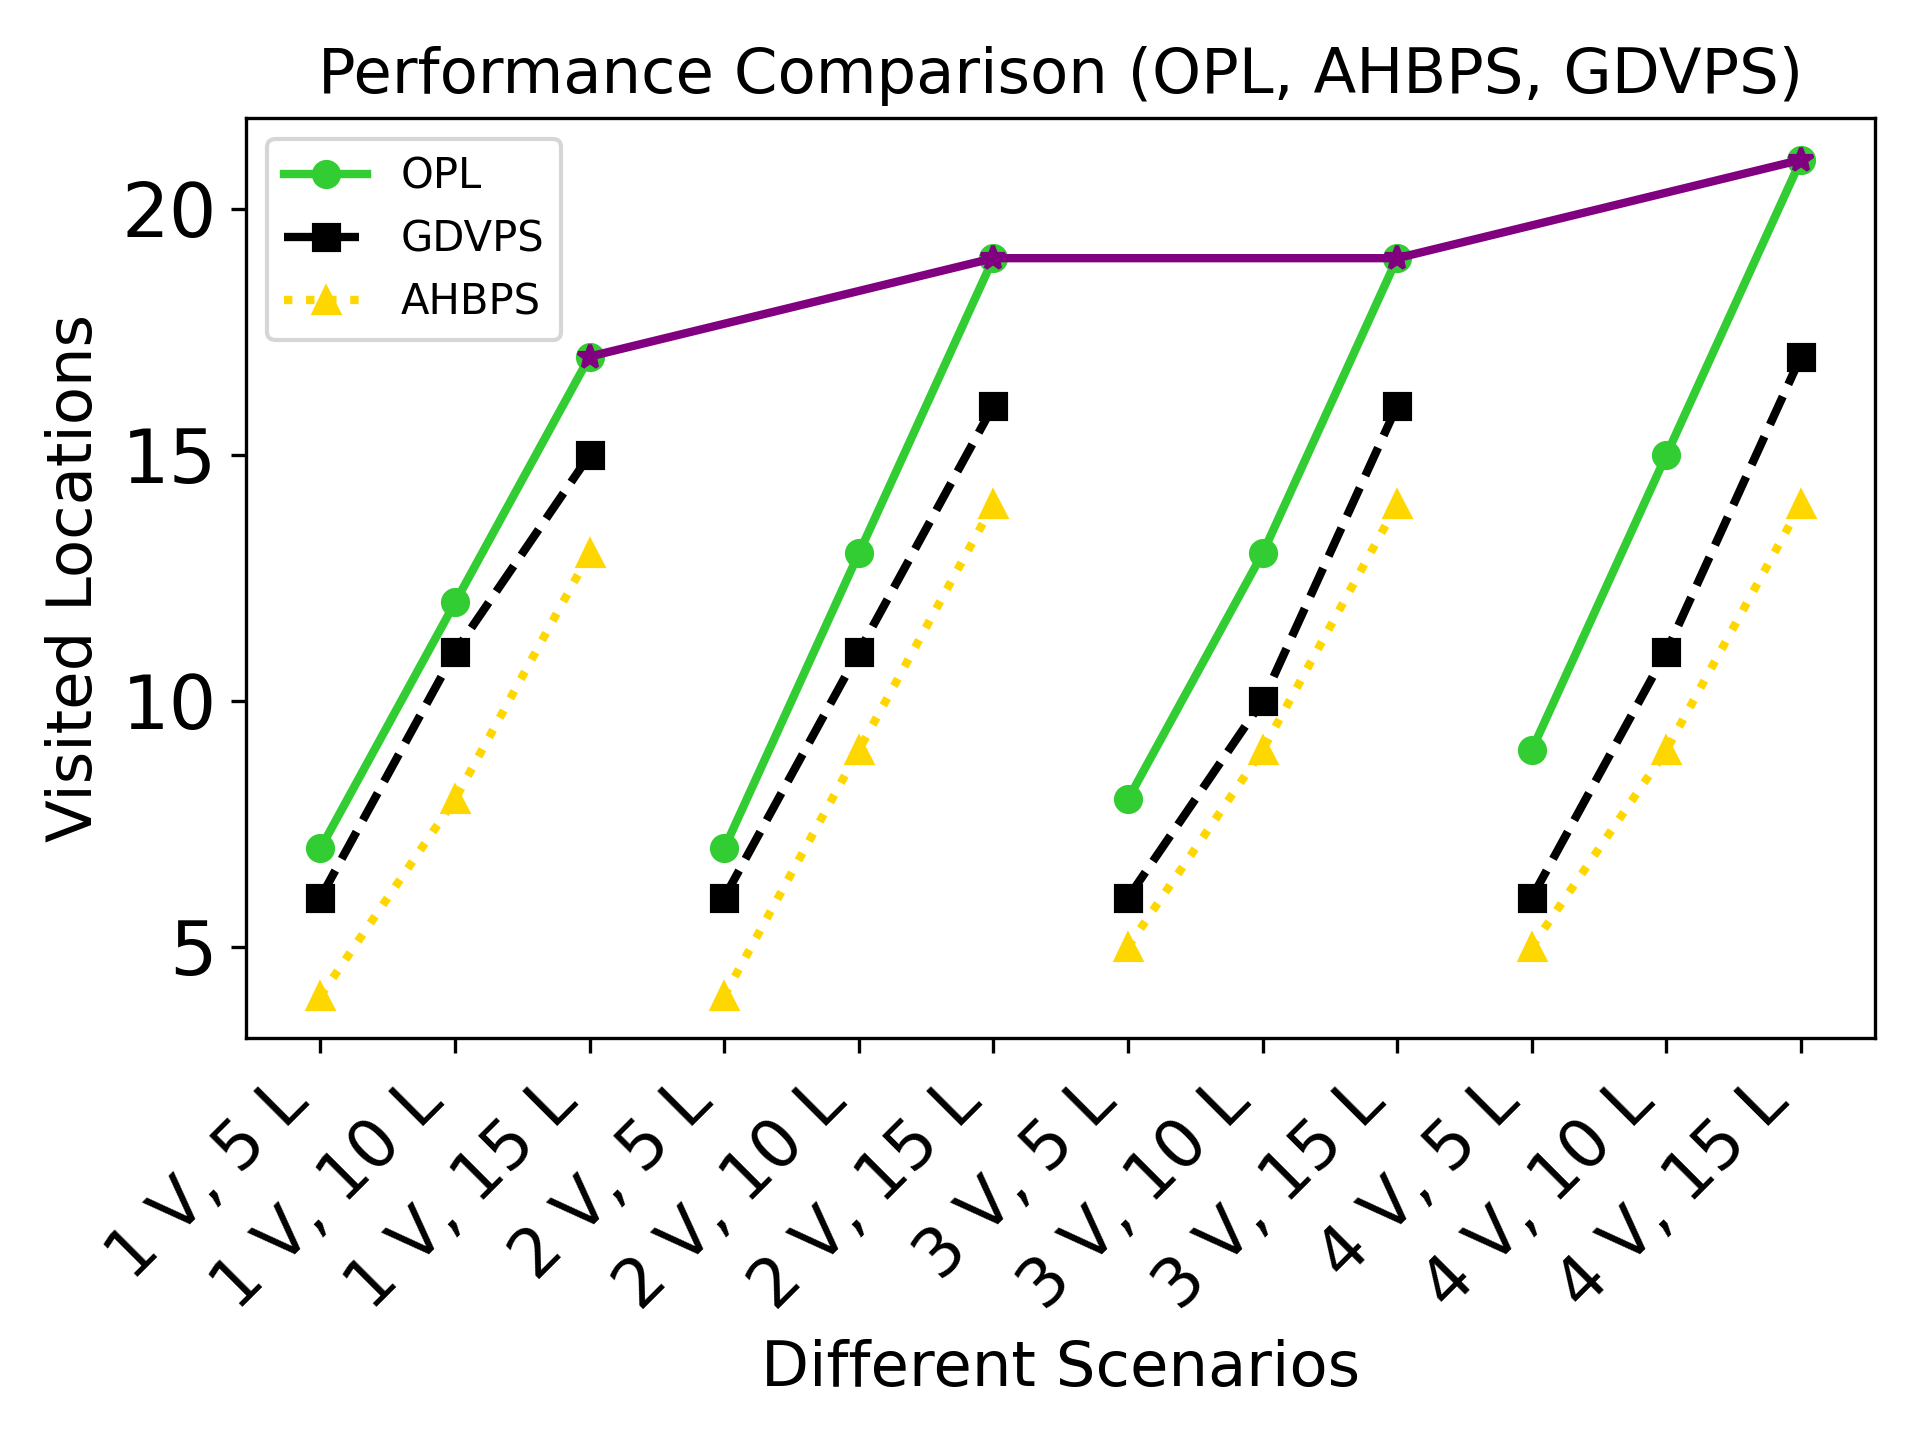
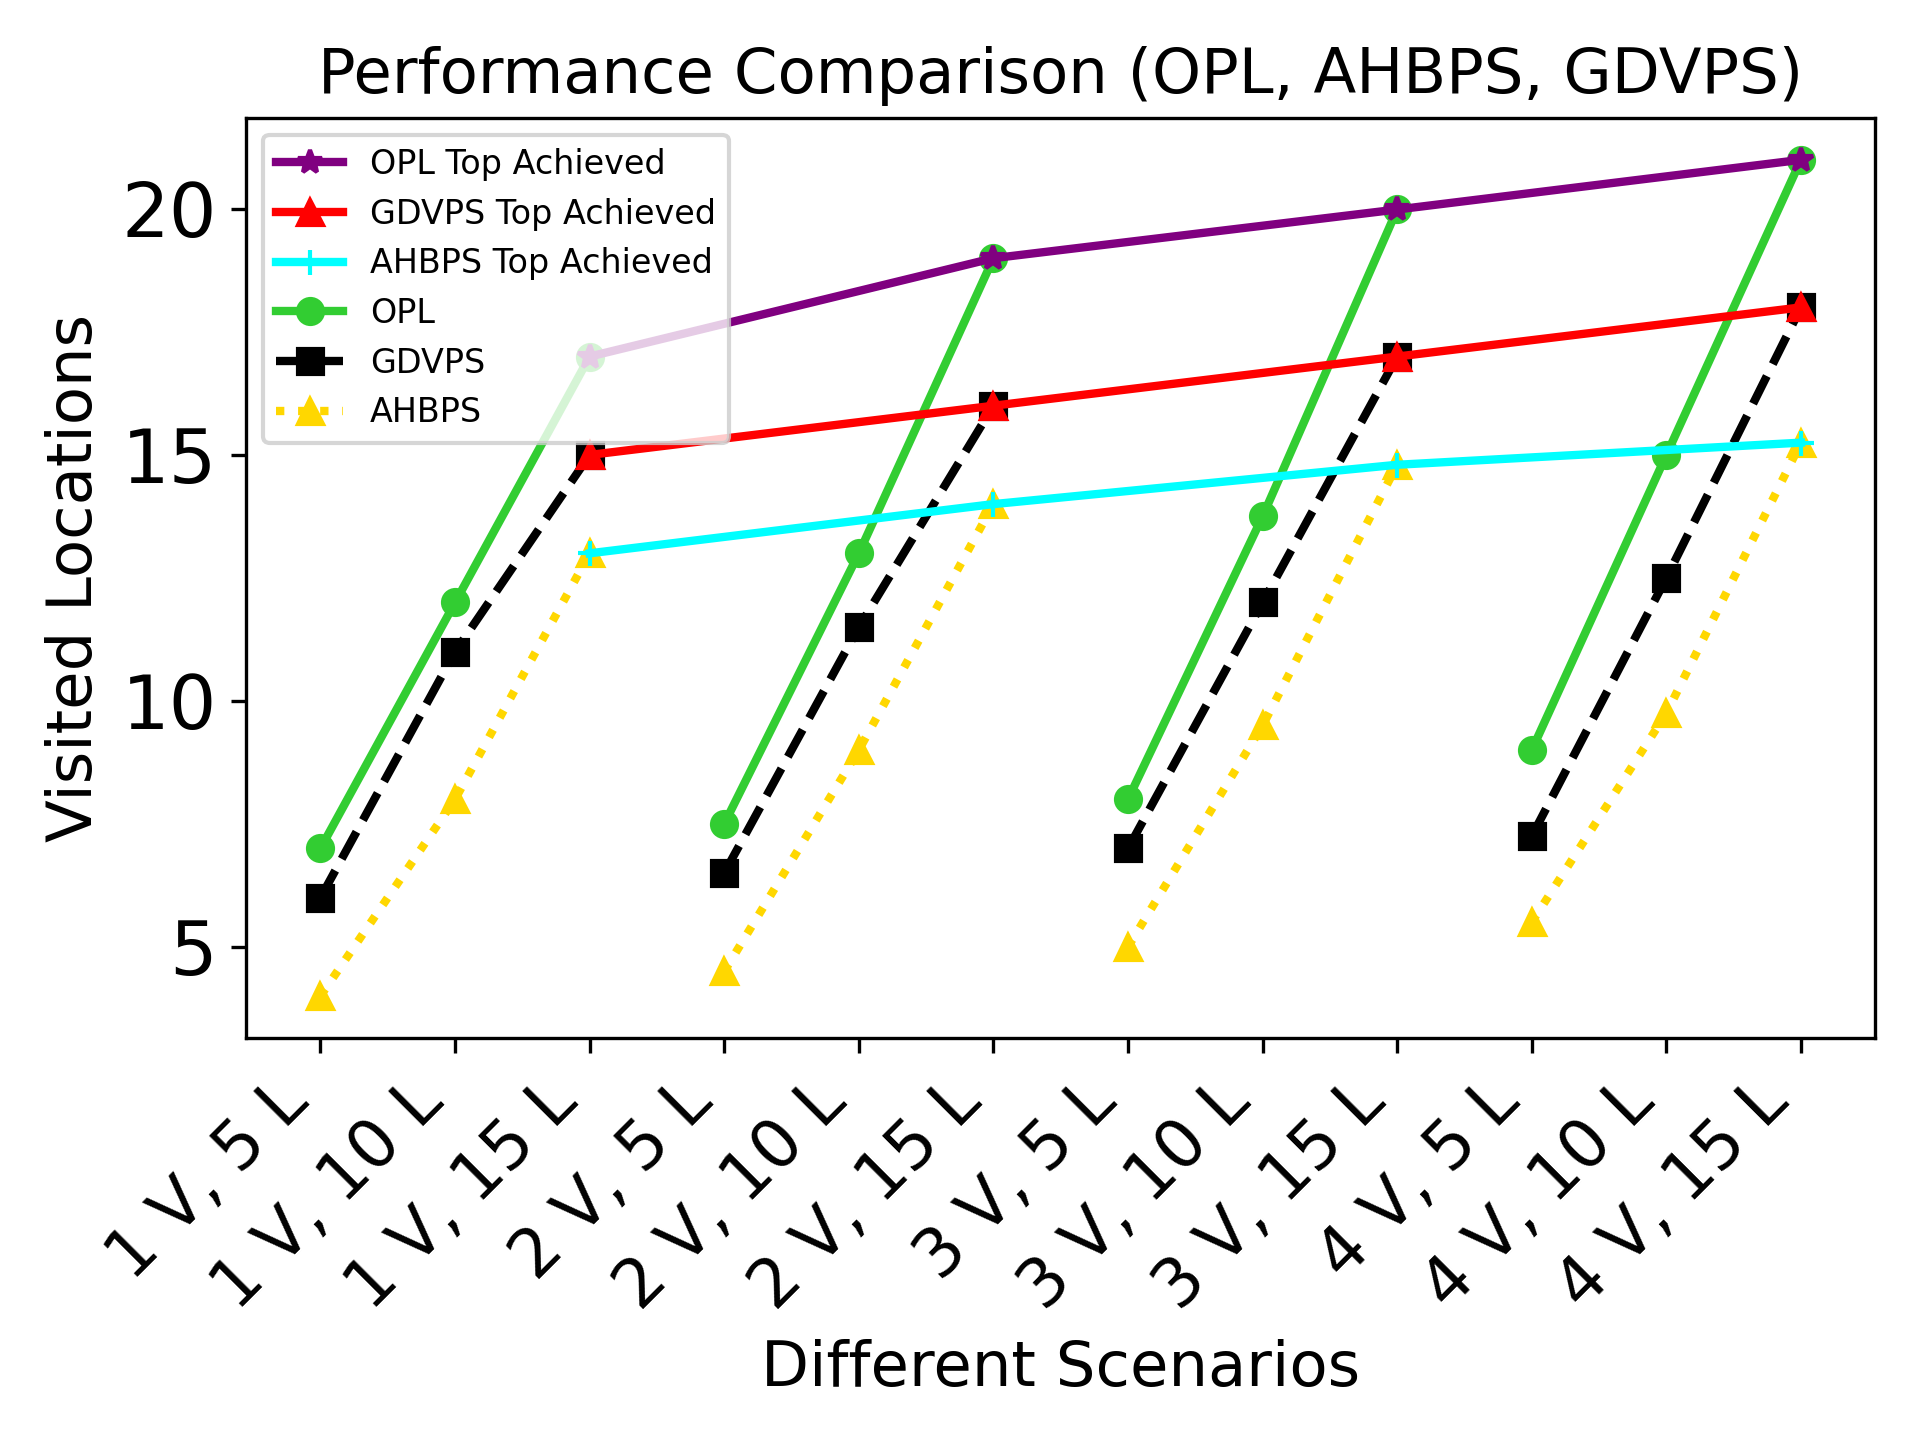
Updated AHBPS and GDVPS Methods are added

Changed region(s): [[0.2812, 0.0938, 0.9688, 0.7188], [0.125, 0.0938, 0.375, 0.3125], [0.3125, 0.375, 0.375, 0.4062]]

diff --git a/GeneticAlgorithm.py b/GeneticAlgorithm.py
@@ -5,7 +5,7 @@ from datetime import datetime
 import time  # Import the time module for tracking execution time
 
 class GeneticAlgorithm:
-    def __init__(self, vehicles, locations, shifts=6, population_size=200, generations=150, rest_period=10, patrol_time=5, heuristic_file='./AHBPS_Run_Time_Large_Instance_Vehicles_Changes.txt'):
+    def __init__(self, vehicles, locations, shifts=6, population_size=200, generations=150, rest_period=10, patrol_time=5, heuristic_file='/home/majidghasemi/Optimized-Vehicle-Patrol-Scheduling/large_instances/AHBPS_large.txt'):
         self.vehicles = vehicles
         self.locations = locations + 1  # Adding depot as a single start/end location
         self.shifts = shifts
@@ -14,7 +14,8 @@ class GeneticAlgorithm:
         self.patrol_time = patrol_time
         self.rest_period = rest_period
         self.shift_lengths = [119] * self.shifts
-        self.distance_matrix = self.generate_distance_matrix()
+        self.base_distance_matrix = self.generate_distance_matrix()  # Base distance matrix initialized once
+        self.distance_matrix = self.base_distance_matrix.copy()  # Copy that may fluctuate during runs
         self.mutation_rate = 0.1
         self.elite_size = int(0.1 * self.population_size)
         self.tournament_size = max(2, int(0.05 * self.locations))  # Dynamic tournament size based on number of locations
@@ -23,7 +24,31 @@ class GeneticAlgorithm:
         self.fitness_cache = {}
 
     def generate_distance_matrix(self):
-        return np.random.randint(10, 20, size=(self.locations, self.locations))
+        # Generate a random distance matrix with values between 10 and 20
+        matrix = np.random.randint(10, 21, size=(self.locations, self.locations))
+        
+        # Make the matrix symmetric to reflect a non-directed graph
+        matrix = (matrix + matrix.T) // 2
+        
+        # Set the diagonal to 0 to indicate no distance between the same location
+        np.fill_diagonal(matrix, 0)
+
+        # Introduce disconnections: set some random pairs to a very high value (infinity)
+        for i in range(self.locations):
+            for j in range(i + 1, self.locations):
+                if random.random() < 0.3:  # 30% chance to disconnect
+                    matrix[i][j] = matrix[j][i] = np.inf  # No direct connection between i and j
+
+        return matrix
+
+    def fluctuate_travel_times(self):
+        # Fluctuate travel times by +/- 2 minutes for some of the edges
+        for i in range(self.locations):
+            for j in range(i + 1, self.locations):
+                if self.base_distance_matrix[i][j] != np.inf:  # Only fluctuate valid edges
+                    fluctuation = random.choice([-2, 2])
+                    self.distance_matrix[i][j] = self.base_distance_matrix[i][j] + fluctuation
+                    self.distance_matrix[j][i] = self.distance_matrix[i][j]  # Ensure symmetry
 
     def load_heuristic_solutions(self, heuristic_file):
         heuristic_solutions = {}
@@ -159,6 +184,16 @@ class GeneticAlgorithm:
         stagnation_count = 0  # Track how long the solution has not improved
 
         for generation in range(self.generations):
+            # Reset to the base travel times at the start of every run
+            self.distance_matrix = self.base_distance_matrix.copy()
+
+            # Decide if travel times will fluctuate
+            if random.random() < 0.5:
+                print("Fluctuating travel times for this run.")
+                self.fluctuate_travel_times()
+            else:
+                print("Keeping travel times constant for this run.")
+
             new_population = []
             elite_individuals = sorted(self.population, key=self.evaluate_fitness, reverse=True)[:self.elite_size]
             new_population.extend(elite_individuals)
@@ -184,17 +219,11 @@ class GeneticAlgorithm:
             else:
                 stagnation_count += 1
 
-            # Log generation and stagnation
             print(f"Generation {generation + 1}, Best Fitness: {current_best_fitness}, Stagnation Count: {stagnation_count}")
 
             if stagnation_count >= 10:  # Early termination if no improvement for 10 generations
                 print(f"Terminating early at generation {generation + 1} due to lack of improvement.")
                 break
-
-            if generation > 0 and best_fitnesses[-1] == best_fitnesses[-2]:
-                self.mutation_rate = min(1.0, self.mutation_rate + 0.01)
-            else:
-                self.mutation_rate = max(0.1, self.mutation_rate - 0.01)
 
         return best_solution, best_fitness, best_fitnesses
 
@@ -216,24 +245,12 @@ class GeneticAlgorithm:
                     print(f"    Location {loc}, Time {time}")
                 print("")
 
+
 # File to save all the results
-results_filename = 'GDVPS_Run_Time_Large_Instance_Vehicles_Changes.txt'
+results_filename = 'GDVPS_Run_Time_Large_Instance_Vehicles_Changes_v2.txt'
 
 # Define the valid pairs of (vehicles, locations)
-VALID_PAIRS = [
-            # (5, 100), (5, 200), (5, 300), (8, 100), (8, 200), (8, 300), (8, 400), (8, 500), (10, 100), (10, 200), (10, 300), (10, 400), (10, 500), 
-            # (10, 750), (10, 1000), (12, 100), (12, 200), (12, 300), (12, 400), (12, 500), 
-            # (12, 750), (12, 1000), (15, 200),(15, 300), (15, 400), (15, 500), 
-            # (15, 750), (15, 1000), 
-            # (20, 500), (20, 750), (20, 1000)
-            # (10, 100), (10, 200), (10, 300), (10, 400), (10, 500), (10, 600), (10, 700), (10, 800), (10, 900), (10, 1000)
-            # (10, 100), (10, 200), (10, 300), (10, 400), (10, 500), (10, 600), (10, 700), (10, 800), (10, 900), (10, 1000),
-            (5, 200), (6, 200), (7, 200), (8, 200), (9, 200), (10, 200), (12, 200), (15, 200), (18, 200), (20, 200)
-]
-# (10, 100), (10, 200), (10, 300), (10, 400), (10, 500), (10, 600), (10, 700), (10, 800), (10, 900), (10, 1000),
-
-# 
-
+VALID_PAIRS = [(15, 1000)]
 
 # Iterate over all valid pairs and run the algorithm
 for vehicles, locations in VALID_PAIRS:

diff --git a/AHBPS.py b/AHBPS.py
@@ -21,6 +21,29 @@ class HVSP:
         self.shift_lengths = shift_lengths if shift_lengths else [120] * shifts
         self.iterations = iterations
 
+        # Generate a base travel time matrix between locations (random between 10 and 20)
+        self.base_travel_times = self.generate_travel_times()
+
+        # Initialize the current travel times matrix (will copy from base matrix and fluctuate when needed)
+        self.travel_times = self.base_travel_times.copy()
+
+    def generate_travel_times(self):
+        # Initialize travel times between 10 and 20
+        travel_times = {}
+        for i in range(self.total_locations):
+            for j in range(i + 1, self.total_locations):
+                time = random.randint(10, 20)
+                travel_times[(i, j)] = time
+                travel_times[(j, i)] = time
+        return travel_times
+
+    def fluctuate_travel_times(self):
+        # Fluctuate travel times by +/- 2 minutes for a subset of the edges
+        for (i, j) in self.base_travel_times:
+            fluctuation = random.choice([-2, 2])
+            self.travel_times[(i, j)] = self.base_travel_times[(i, j)] + fluctuation
+            self.travel_times[(j, i)] = self.travel_times[(i, j)]  # Keep symmetry
+
     def needs_revisiting(self, current_time, location, last_visit_times, location_locks):
         return (current_time - last_visit_times[location]) >= 30 and (location_locks[location] is None or location_locks[location] <= current_time)
 
@@ -62,7 +85,7 @@ class HVSP:
             if not possible_locations:
                 break
 
-            travel_time_to_next = random.randint(10, 20)
+            travel_time_to_next = self.travel_times[(self.first_depot, possible_locations[0])]  # Use travel times from the matrix
             next_possible_time = current_time + travel_time_to_next + self.patrol_time
 
             if next_possible_time + travel_time_to_next > end_time:
@@ -71,7 +94,7 @@ class HVSP:
             # Shuffle and select the next location to visit
             random.shuffle(possible_locations)
             for loc in possible_locations:
-                travel_to_next = current_time + travel_time_to_next
+                travel_to_next = current_time + self.travel_times[(self.first_depot, loc)]
                 stay_at_next = travel_to_next + self.patrol_time
                 if stay_at_next + travel_time_to_next <= end_time:
                     route.append(loc)
@@ -99,6 +122,14 @@ class HVSP:
 
     def run_simulation(self, last_visit_times, location_locks, is_detailed=False):
         routes, timing_info, location_visits, shift_start_time, shift_end_time = self.initialize_simulation()
+
+        # Randomly decide if we should fluctuate travel times for this run (25% of the time)
+        if random.random() < 0.25:
+            print("Fluctuating travel times for this run.")
+            self.fluctuate_travel_times()
+        else:
+            print("Keeping travel times constant for this run.")
+            self.travel_times = self.base_travel_times.copy()  # Reset to base travel times
 
         # Initialize with a random solution
         for shift in range(self.shifts):
@@ -141,15 +172,9 @@ class HVSP:
     def main(self):
         # List of (vehicles, locations) pairs to test
         test_cases = [
-            (1, 4), (1, 5), (1, 10), (1, 12), (1, 15), (1, 18), (1, 20),(2, 4),(2, 5),(2, 10), (2, 12), (2, 15), (2, 18), (2, 20), (2, 25), (2, 30),
-            (3, 10),(3, 12),(3, 15), (3, 18), (3, 20), (3, 25), (3, 30), (4, 12),(4, 15), (4, 18), (4, 20), (4, 25), (4, 30), 
-            (5, 12),(5, 15), (5, 18), (5, 20), (5, 25), (4, 30), 
-            # (5, 100), (5, 200), (5, 300), (8, 100), (8, 200), (8, 300), (8, 400), (8, 500), (10, 100), (10, 200), (10, 300), (10, 400), (10, 500), 
-            # (10, 750), (10, 1000), (12, 100), (12, 200), (12, 300), (12, 400), (12, 500), 
-            # (12, 750), (12, 1000), (15, 200),(15, 300), (15, 400), (15, 500), 
-            # (15, 750), (15, 1000), (20, 500), (20, 750), (20, 1000)
-            # (10, 100), (10, 200), (10, 300), (10, 400), (10, 500), (10, 600), (10, 700), (10, 800), (10, 900), (10, 1000),
-            # (5, 200), (6, 200), (7, 200), (8, 200), (9, 200), (10, 200), (12, 200), (15, 200), (18, 200), (20, 200)
+            (1, 4), (1, 5), (1, 10), (1, 12), (1, 15), (1, 18), (1, 20), (2, 4), (2, 5), (2, 10), (2, 12), (2, 15), (2, 18), (2, 20), (2, 25), (2, 30),
+            (3, 10), (3, 12), (3, 15), (3, 18), (3, 20), (3, 25), (3, 30), (4, 12), (4, 15), (4, 18), (4, 20), (4, 25), (4, 30),
+            (5, 12), (5, 15), (5, 18), (5, 20), (5, 25), (4, 30),
         ]
 
         for vehicles, locations in test_cases:

diff --git a/large_instances/Visualize.py b/large_instances/Visualize.py
@@ -33,12 +33,12 @@ gdvps_values = [
     310,  # 12 V, 500 L
     334,  # 12 V, 750 L
     349,  # 12 V, 1000 L
-    349,  # 15 V, 500 L
+    365,  # 15 V, 500 L
     564,  # 15 V, 750 L
-    953,  # 15 V, 1000 L
+    602,  # 15 V, 1000 L
     426,  # 20 V, 500 L
-    712,  # 20 V, 750 L
-    785   # 20 V, 1000 L
+    595,  # 20 V, 750 L
+    701   # 20 V, 1000 L
 ]
 
 # X-axis positions
@@ -58,12 +58,22 @@ bars_gdvps = ax.bar(x - bar_width/2, gdvps_values, bar_width, label='GDVPS', col
 bars_ahbps = ax.bar(x + bar_width/2, ahbps_values, bar_width, label='AHBPS', color='#FFFF99', 
                     hatch='.', edgecolor='red')
 
-# Find the best (highest) bar between AHBPS and GDVPS for each scenario
-best_values = [max(ahbps_values[i], gdvps_values[i]) for i in range(len(scenarios))]
-best_x_positions = [(x[i] - bar_width/2 + x[i] + bar_width/2)/2.0355 for i in range(len(scenarios))]  # Center of the bars
+# Plot lines connecting the best results for each vehicle group
+# 10 V: Connecting the best results for '10 V, 500 L', '10 V, 750 L', '10 V, 1000 L'
+best_10v = [max(ahbps_values[i], gdvps_values[i]) for i in range(3)]
+ax.plot(x[0:3], best_10v, color='purple', linestyle='-', marker='*', linewidth=2, label='10 V Best')
 
-# Plot the line connecting the best bars
-ax.plot(best_x_positions, best_values, color='purple', linestyle='-', marker='*', linewidth=2)
+# 12 V: Connecting the best results for '12 V, 500 L', '12 V, 750 L', '12 V, 1000 L'
+best_12v = [max(ahbps_values[i], gdvps_values[i]) for i in range(3, 6)]
+ax.plot(x[3:6], best_12v, color='orange', linestyle='-', marker='*', linewidth=2, label='12 V Best')
+
+# 15 V: Connecting the best results for '15 V, 500 L', '15 V, 750 L', '15 V, 1000 L'
+best_15v = [max(ahbps_values[i], gdvps_values[i]) for i in range(6, 9)]
+ax.plot(x[6:9], best_15v, color='green', linestyle='-', marker='*', linewidth=2, label='15 V Best')
+
+# 20 V: Connecting the best results for '20 V, 500 L', '20 V, 750 L', '20 V, 1000 L'
+best_20v = [max(ahbps_values[i], gdvps_values[i]) for i in range(9, 12)]
+ax.plot(x[9:12], best_20v, color='blue', linestyle='-', marker='*', linewidth=2, label='20 V Best')
 
 # Labels and title with increased font size
 ax.set_xlabel('Different Scenarios', fontsize=14)
@@ -74,23 +84,17 @@ ax.set_title('Performance Comparison between AHBPS and GDVPS', fontsize=13)
 ax.set_xticks(x)
 ax.set_xticklabels(scenarios, rotation=45, ha="right", fontsize=13)
 
-# Get the tick labels and set the one for "15 V, 1000 L" to bold
-xtick_labels = ax.get_xticklabels()
-for label in xtick_labels:
-    if label.get_text() == '15 V, 1000 L':
-        label.set_fontweight('bold')
-
 # Increase the font size of the numbers on the y-axis
 ax.tick_params(axis='y', labelsize=17)
 
 # Move the legend to the left of the figure
-ax.legend(fontsize=12, loc='center left', bbox_to_anchor=(-0.0, 0.9))
+ax.legend(fontsize=9, loc='best')
 
 # Adjust layout
 plt.tight_layout()
 
 # Save the plot locally
-plt.savefig('comparison_ahbps_gdvps_with_best_line.png', dpi=600)
+plt.savefig('comparison_ahbps_gdvps_best_results_by_vehicle.png', dpi=600)
 
 # Show the plot
 plt.show()

diff --git a/Visualize_codes/Line_chart_visualize.py b/Visualize_codes/Line_chart_visualize.py
@@ -10,13 +10,13 @@ scenarios = [
 ]
 
 # AHBPS (Average Unique Locations Visited)
-ahbps_values = [4.0, 8.0, 13.0, 4.0, 9.0, 14.0, 5.0, 9.0, 14.0, 5.0, 9.0, 14.0]
+ahbps_values = [4.0, 8.0, 13.0, 4.5, 9.0, 14.0, 5.0, 9.5, 14.8, 5.5, 9.75, 15.25]
 
 # GDVPS (Average fitness)
-gdvps_values = [6.0, 11.0, 15.0, 6.0, 11.0, 16.0, 6.0, 10.0, 16.0, 6.0, 11.0, 17.0]
+gdvps_values = [6.0, 11.0, 15.0, 6.5, 11.5, 16.0, 7, 12, 17.0, 7.25, 12.5, 18]
 
 # OPL (Optimal) values
-opl_values = [7.0, 12.0, 17.0, 7.0, 13.0, 19.0, 8.0, 13.0, 19.0, 9.0, 15.0, 21.0]
+opl_values = [7.0, 12.0, 17.0, 7.5, 13.0, 19.0, 8.0, 13.75, 19.99, 9.0, 15.0, 21.0]
 
 # X-axis positions (just indexes for the line plot)
 x = np.arange(len(scenarios))
@@ -41,16 +41,24 @@ for group in vehicle_groups:
     ax.plot(group, [ahbps_values[i] for i in group], color='#FFD700', linestyle=':', marker='^', linewidth=2)
 
 # Finding the maximum values for each vehicle group
-top_achieved_values = [
-    max([opl_values[i], gdvps_values[i], ahbps_values[i]]) for i in [2, 5, 8, 11]
+top_achieved_values_opl = [
+    max([opl_values[i]]) for i in [2, 5, 8, 11]
 ]  # Index 2, 5, 8, 11 correspond to '15 locations' for each vehicle group (1V, 2V, 3V, 4V)
+top_achieved_values_ahbps = [
+    max([ahbps_values[i]]) for i in [2, 5, 8, 11]
+]  
+top_achieved_values_gdvps = [
+    max([gdvps_values[i]]) for i in [2, 5, 8, 11]
+]  
 
 # Corresponding x positions for these top results
 top_x_positions = [2, 5, 8, 11]  # Corresponding to '1 V, 15 L', '2 V, 15 L', '3 V, 15 L', '4 V, 15 L'
 
 # Plotting the line connecting top results
-# ax.plot(top_x_positions, top_achieved_values, color='red', linestyle='-', marker='*', linewidth=2, label='Top Achieved')
-ax.plot(top_x_positions, top_achieved_values, color='purple', linestyle='-', marker='*', linewidth=2)
+ax.plot(top_x_positions, top_achieved_values_opl, color='purple', linestyle='-', marker='*', linewidth=2, label='OPL Top Achieved')
+ax.plot(top_x_positions, top_achieved_values_gdvps, color='red', linestyle='-', marker='^', linewidth=2, label='GDVPS Top Achieved')
+ax.plot(top_x_positions, top_achieved_values_ahbps, color='cyan', linestyle='-', marker='+', linewidth=2, label='AHBPS Top Achieved')
+# ax.plot(top_x_positions, top_achieved_values, color='purple', linestyle='-', marker='*', linewidth=2)
 
 # Add a single label for each plot in the legend
 ax.plot([], [], color='limegreen', linestyle='-', marker='o', label='OPL', linewidth=2)
@@ -70,7 +78,7 @@ ax.set_title('Performance Comparison (OPL, AHBPS, GDVPS)', fontsize=15)
 ax.tick_params(axis='y', labelsize=18)
 
 # Add the legend with only OPL, GDVPS, AHBPS, and Top Achieved Results
-ax.legend(fontsize=10, loc='best')
+ax.legend(fontsize=8, loc='best')
 
 # Adjust layout
 plt.tight_layout()
